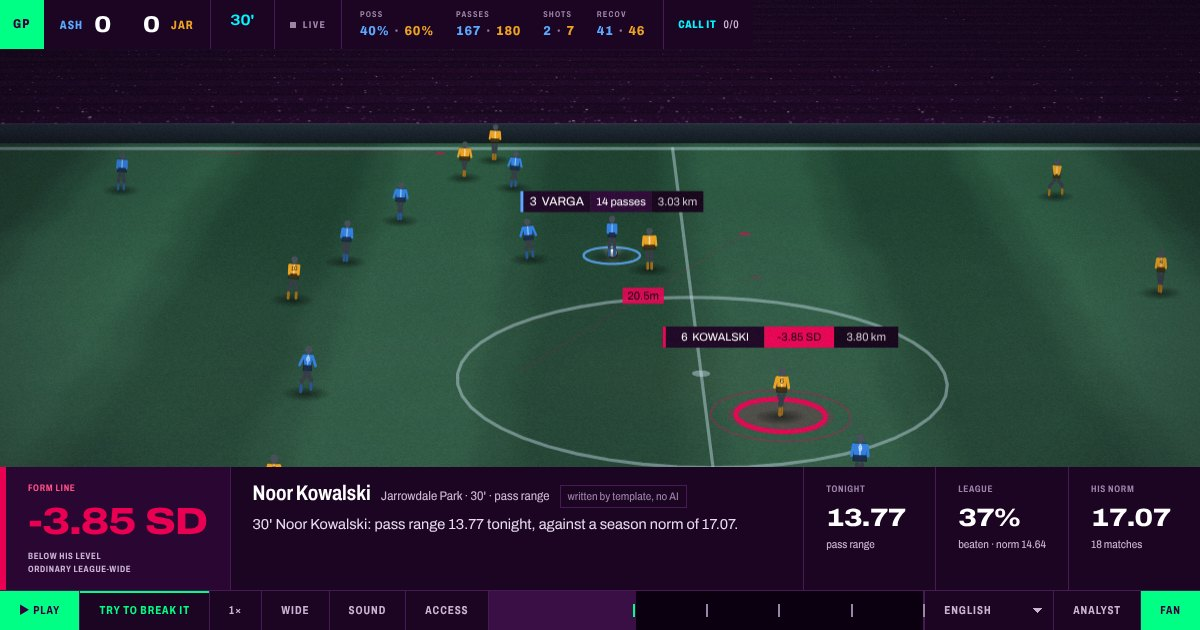
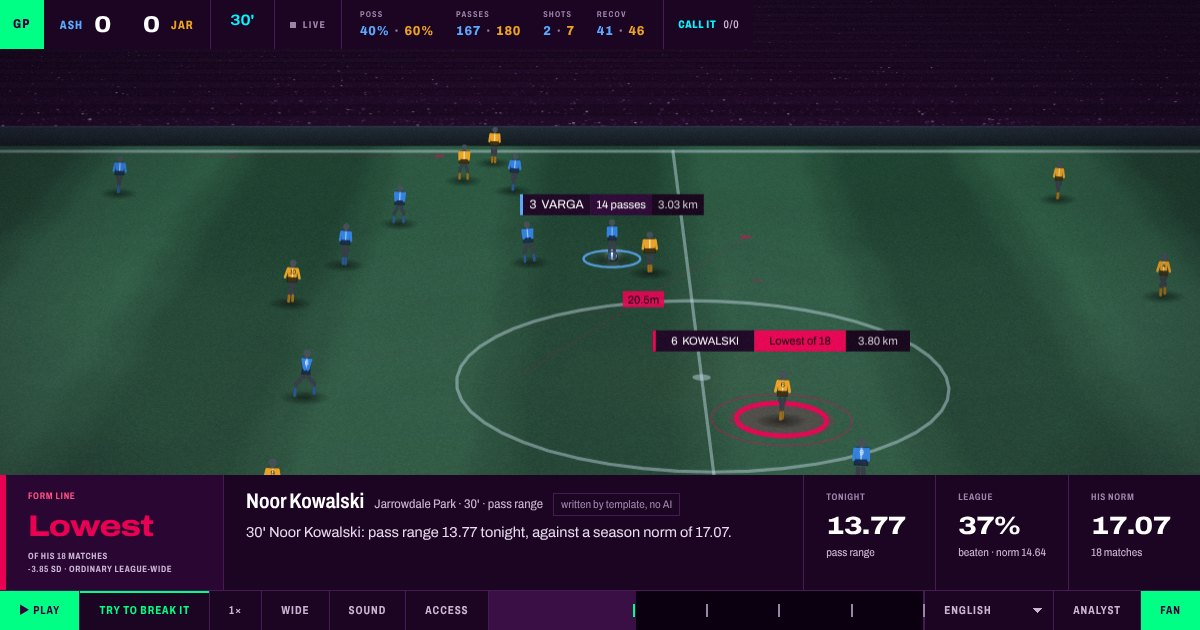
Lead with "Lowest of his 18 matches", not "-3.85 SD"
A standard deviation is right for an analyst and lost on a fan. The
strap's headline is now where tonight ranks among the player's own
matches this season -- "Lowest", "2nd highest", "3rd lowest" -- with
"of his 18 matches" under it and the SD kept small beside "ordinary
league-wide". The pitch tag above the subject says the same: "Lowest of
18".

Rank says what the z-score says (him against himself) in words. A
percentage would not: Beaumont is +3% on his average and that is the
best of his 18 matches, because he is consistent.

- feed.py: season_rank() from the same per-match season means the Form
  Line uses; ranked from the end the claim points to; a tie counts
  against a record; direction-aware for low-is-good metrics. Shipped
  per moment as {pos, of, end}. Shown when pos <= 3; otherwise the SD.
- Labels in all five languages; the SD sits in its own LTR run in
  Arabic.
- tests/test_rank.py (7): unit cases, every shipped rank recomputed from
  the season, the opener pinned to "lowest of 18", labels present in
  every language.
- Preview image, README alt text and the demo script's opening line
  updated.

167 passed; axe-core 0 violations.

Claude-Session: https://claude.ai/code/session_01E9b7JPXj8N3Bai4KZHqxPT

diff --git a/docs/index.html b/docs/index.html
@@ -1200,7 +1200,10 @@ function subjectIndex() {
   return { side, p, away: side === 'away',
     rgb: up ? SUBJECT_RGB.up : SUBJECT_RGB.down, hex: up ? '#00FF85' : '#E90052',
     ink: '#0B0010', shirt: FEED.lineups[side][p].n, last: FEED.lineups[side][p].last,
-    stat: `${m.z > 0 ? '+' : ''}${m.z} SD`, events: m.events || [],
+    // The pitch tag says what the strap's headline says: "Lowest of 18".
+    stat: (m.season_rank && m.season_rank.pos <= 3)
+      ? fill(uiNow().rank_short, { rank: T(`rank_${m.season_rank.end}_${m.season_rank.pos}`), n: m.season_rank.of })
+      : `${m.z > 0 ? '+' : ''}${m.z} SD`, events: m.events || [],
     touches: m.touches || null, claimMinute: m.minute, claimN: (m.events || []).length,
     unit: unitFor(m.metric), metres: /range/.test(m.metric_key || m.metric || '') };
 }
@@ -2035,8 +2038,19 @@ function showMoment(i) {
   // The Form Line is the hero block, read first. Everything else on the
   // strap is a supporting figure any competitor could also show.
   const hero = $('#lForm');
-  if (m.season_mean != null) {
-    hero.textContent = `${m.z > 0 ? '+' : ''}${m.z} SD`;
+  const rk = m.season_rank, sd = `${m.z > 0 ? '+' : ''}${m.z} SD`;
+  if (m.season_mean != null && rk && rk.pos <= 3) {
+    // Lead with where tonight ranks among his own matches -- "Lowest",
+    // "2nd highest" -- which says what the z-score says without asking
+    // anyone to know what a standard deviation is. The SD stays, small,
+    // for the analyst; so does the league's view, which is the contrast.
+    hero.textContent = T(`rank_${rk.end}_${rk.pos}`);
+    hero.style.fontSize = '30px';
+    // The SD sits in its own left-to-right run, or Arabic shows "3.85- SD".
+    $('#lTag').innerHTML = `<span>${escapeHtml(fill(uiNow().rank_of, { n: rk.of }))}</span>` +
+      `<span><bdi dir="ltr">${sd}</bdi> · ${escapeHtml(m.diverges ? T('ordinary') : (m.above ? T('above') : T('below')))}</span>`;
+  } else if (m.season_mean != null) {
+    hero.textContent = sd;
     hero.style.fontSize = '';
   } else {
     hero.textContent = T('refused');

diff --git a/src/gegenpress/i18n.py b/src/gegenpress/i18n.py
@@ -279,6 +279,14 @@ UI: dict[str, dict[str, str]] = {
         "why_gate_fb": "fell back to template",
         "refused": "refused",
         "refused_tag": "no between-player signal · league claim only",
+        "rank_lowest_1": "Lowest",
+        "rank_lowest_2": "2nd lowest",
+        "rank_lowest_3": "3rd lowest",
+        "rank_highest_1": "Highest",
+        "rank_highest_2": "2nd highest",
+        "rank_highest_3": "3rd highest",
+        "rank_of": "of his {n} matches",
+        "rank_short": "{rank} of {n}",
         "priv": "Your settings stay in this browser. No account, no cookies, and nothing about you is sent anywhere.",
         "priv_azure": "With the Azure voice, the line being spoken is sent to Azure Speech to be voiced. Nothing about you is.",
         "pitch_label": "Match pitch. Turn on audio description under Access to hear the play.",
@@ -391,6 +399,14 @@ UI: dict[str, dict[str, str]] = {
         "why_gate_fb": "se usó la plantilla",
         "refused": "rechazado",
         "refused_tag": "sin señal entre jugadores · solo afirmación de liga",
+        "rank_lowest_1": "El más bajo",
+        "rank_lowest_2": "2.º más bajo",
+        "rank_lowest_3": "3.º más bajo",
+        "rank_highest_1": "El más alto",
+        "rank_highest_2": "2.º más alto",
+        "rank_highest_3": "3.º más alto",
+        "rank_of": "de sus {n} partidos",
+        "rank_short": "{rank} de {n}",
         "priv": "Tus ajustes se quedan en este navegador. Sin cuenta, sin cookies y nada sobre ti se envía a ningún sitio.",
         "priv_azure": "Con la voz de Azure, la frase que se lee se envía a Azure Speech para sonorizarla. Nada sobre ti.",
         "pitch_label": "Campo del partido. Activa la audiodescripción en Accesibilidad para escuchar el juego.",
@@ -503,6 +519,14 @@ UI: dict[str, dict[str, str]] = {
         "why_gate_fb": "modèle de secours utilisé",
         "refused": "refusé",
         "refused_tag": "aucun signal entre joueurs · affirmation de ligue seulement",
+        "rank_lowest_1": "Le plus bas",
+        "rank_lowest_2": "2e plus bas",
+        "rank_lowest_3": "3e plus bas",
+        "rank_highest_1": "Le plus haut",
+        "rank_highest_2": "2e plus haut",
+        "rank_highest_3": "3e plus haut",
+        "rank_of": "sur ses {n} matchs",
+        "rank_short": "{rank} sur {n}",
         "priv": "Vos réglages restent dans ce navigateur. Pas de compte, pas de cookies, et rien vous concernant n’est envoyé.",
         "priv_azure": "Avec la voix Azure, la phrase lue est envoyée à Azure Speech pour être vocalisée. Rien vous concernant.",
         "pitch_label": "Terrain du match. Activez l’audiodescription dans Accès pour entendre le jeu.",
@@ -615,6 +639,14 @@ UI: dict[str, dict[str, str]] = {
         "why_gate_fb": "a fixed template was used",
         "refused": "not allowed",
         "refused_tag": "measures the game, not the player · league comparison only",
+        "rank_lowest_1": "His lowest",
+        "rank_lowest_2": "His 2nd lowest",
+        "rank_lowest_3": "His 3rd lowest",
+        "rank_highest_1": "His highest",
+        "rank_highest_2": "His 2nd highest",
+        "rank_highest_3": "His 3rd highest",
+        "rank_of": "in {n} games this season",
+        "rank_short": "{rank} of {n}",
         "priv": "Your choices stay on this computer. No account, no cookies, nothing about you is sent.",
         "priv_azure": "With the Azure voice, the words being read out are sent to Azure to be spoken. Nothing about you is.",
         "pitch_label": "The pitch. Turn on spoken description under Access to hear what happens.",
@@ -727,6 +759,14 @@ UI: dict[str, dict[str, str]] = {
         "why_gate_fb": "استُخدم القالب الاحتياطي",
         "refused": "مرفوض",
         "refused_tag": "لا فرق بين اللاعبين · مقارنة الدوري فقط",
+        "rank_lowest_1": "الأدنى",
+        "rank_lowest_2": "ثاني أدنى",
+        "rank_lowest_3": "ثالث أدنى",
+        "rank_highest_1": "الأعلى",
+        "rank_highest_2": "ثاني أعلى",
+        "rank_highest_3": "ثالث أعلى",
+        "rank_of": "من مبارياته الـ{n}",
+        "rank_short": "{rank} من {n}",
         "priv": "تبقى إعداداتك في هذا المتصفح. لا حساب، ولا ملفات تعريف ارتباط، ولا يُرسل أي شيء عنك.",
         "priv_azure": "مع صوت Azure، تُرسل الجملة المقروءة إلى Azure Speech لنطقها. لا شيء عنك.",
         "pitch_label": "أرض الملعب. فعّل الوصف الصوتي من قائمة الإتاحة لسماع اللعب.",

diff --git a/tests/test_rank.py b/tests/test_rank.py
@@ -1,0 +1,98 @@
+"""The strap's headline: where tonight ranks among his own matches.
+
+"Lowest of his 18 matches" replaces "-3.85 SD" as the big figure because
+a fan can read it. It has to be exactly as true as the z-score it stands
+in for, so it is recomputed here from the season, independently of the
+feed, and checked to point the same way as the z.
+"""
+
+from __future__ import annotations
+
+import json
+import pathlib
+
+import pytest
+
+from gegenpress.baselines import METRICS
+from gegenpress.feed import season_rank
+from gegenpress.form import build_form_baselines
+from gegenpress.season import build_league
+from gegenpress.simulate import simulate_season
+
+ROOT = pathlib.Path(__file__).resolve().parents[1]
+FEED = ROOT / "docs" / "feed.json"
+LABEL_TO_KEY = {"pass range": "pass_distance_m", "ball speed": "ball_speed_ms",
+                "top speed": "top_speed_ms", "carry range": "carry_distance_m",
+                "recovery time": "recovery_time_s", "pass difficulty": "pass_difficulty",
+                "shot speed": "shot_speed_ms", "xG": "xg"}
+
+
+def test_ranks_from_the_right_end():
+    means = [10.0, 12.0, 14.0, 16.0]
+    assert season_rank(means, 9.0, -2.0) == {"pos": 1, "of": 4, "end": "lowest"}
+    assert season_rank(means, 13.0, -1.0) == {"pos": 3, "of": 4, "end": "lowest"}
+    assert season_rank(means, 17.0, 2.0) == {"pos": 1, "of": 4, "end": "highest"}
+    assert season_rank(means, 15.0, 1.0) == {"pos": 2, "of": 4, "end": "highest"}
+
+
+def test_a_tie_does_not_count_as_a_record():
+    """'Lowest' must mean lower than every match he has played."""
+    assert season_rank([10.0, 12.0], 10.0, -1.5)["pos"] == 2
+
+
+def test_low_is_good_metrics_rank_in_raw_values():
+    # Worse (z < 0) on a low-is-good metric is a HIGH value.
+    assert season_rank([20.0, 25.0, 30.0], 35.0, -2.0, low_is_good=True)["end"] == "highest"
+    assert season_rank([20.0, 25.0, 30.0], 15.0, 2.0, low_is_good=True)["end"] == "lowest"
+
+
+def test_no_rank_without_a_direction():
+    assert season_rank([1.0, 2.0], 1.5, 0) is None
+    assert season_rank([], 1.5, -1.0) is None
+
+
+@pytest.fixture(scope="module")
+def form():
+    league = build_league(seed=2026)
+    return league, build_form_baselines(simulate_season(league, seed=2026))
+
+
+def test_every_shipped_rank_recomputes_from_the_season(form):
+    if not FEED.exists():  # pragma: no cover
+        pytest.skip("feed not built")
+    league, fb = form
+    names = {p.name: p.player_id for p in league.players}
+    feed = json.loads(FEED.read_text())
+    for m in feed["moments"]:
+        if m.get("season_mean") is None:
+            continue
+        key = LABEL_TO_KEY[m["metric"]]
+        means = fb.player_match_means[(names[m["player"]], key)]
+        rk = m["season_rank"]
+        assert rk["of"] == len(means) == m["appearances"], m["player"]
+        low = METRICS[key][2] == "low_is_good"
+        if (rk["end"] == "lowest") != low:
+            assert (m["z"] < 0), (m["player"], "a 'lowest' must be a night below his level")
+            assert rk["pos"] == 1 + sum(x <= m["value"] for x in means)
+        else:
+            assert (m["z"] > 0), (m["player"], "a 'highest' must be a night above his level")
+            assert rk["pos"] == 1 + sum(x >= m["value"] for x in means)
+
+
+def test_the_opener_is_his_lowest_of_the_season():
+    """The demo's first frame: pin it, so a regenerated feed cannot quietly
+    change what the video says."""
+    if not FEED.exists():  # pragma: no cover
+        pytest.skip("feed not built")
+    feed = json.loads(FEED.read_text())
+    k = next(m for m in feed["moments"] if m["player"] == "Noor Kowalski" and m["minute"] == 30)
+    assert k["season_rank"] == {"pos": 1, "of": 18, "end": "lowest"}
+
+
+def test_the_strap_has_a_label_for_every_rank_it_can_show():
+    feed = json.loads(FEED.read_text())
+    for lang, ui in feed["i18n"]["ui"].items():
+        for end in ("lowest", "highest"):
+            for pos in (1, 2, 3):
+                assert ui.get(f"rank_{end}_{pos}"), (lang, end, pos)
+        assert "{n}" in ui["rank_of"], lang

diff --git a/src/gegenpress/feed.py b/src/gegenpress/feed.py
@@ -16,8 +16,9 @@ from dataclasses import asdict, dataclass
 from typing import Any
 
 from .agents import TOLERANCE, Gate, Segment, run_desk
+from .baselines import METRICS
 from .editorial import ReviewLog, apply as editorial_apply
-from .form import CHECKPOINTS, METRIC_LABELS, NOTABLE_Z
+from .form import CHECKPOINTS, METRIC_LABELS, NOTABLE_Z, build_form_baselines
 from .i18n import (DIRECTION, LANGUAGES, LANGUAGE_CODES, form_claim,
                    metric_label, moment_text)
 from .i18n import ui as ui_strings
@@ -289,6 +290,30 @@ class _BriefView:
         return self._allowed
 
 
+def season_rank(form_means: list[float], value: float, z: float | None,
+                low_is_good: bool = False) -> dict[str, Any] | None:
+    """Where tonight sits among his own matches this season, in words a fan
+    reads at a glance: "lowest of his 18", "2nd highest of 18".
+
+    The same comparison the z-score makes -- him against himself -- without
+    asking anyone to know what a standard deviation is. Ranked in the
+    direction of the claim: a night below his level is ranked from the
+    bottom, one above it from the top. Ties count against the claim, so
+    "lowest" means strictly lower than every match he has played.
+    """
+    if not form_means or z is None or z == 0:
+        return None
+    # z is direction-aware (positive always means better), the rank is in
+    # raw values: a worse night on a low-is-good metric is a HIGH value.
+    if (z < 0) != low_is_good:
+        pos = 1 + sum(1 for x in form_means if x <= value)
+        end = "lowest"
+    else:
+        pos = 1 + sum(1 for x in form_means if x >= value)
+        end = "highest"
+    return {"pos": pos, "of": len(form_means), "end": end}
+
+
 def build_feed(
     store: Store,
     league: League,
@@ -332,6 +357,7 @@ def build_feed(
     follow_at = {str(m): follow_as_of(m) for m in CHECKPOINTS}
     state = store.match_state(live, as_of_minute=90, window_minutes=90)
 
+    form_base = build_form_baselines(season)
     moments = []
     for seg, review in zip(segments, reviews):
         b = seg.brief
@@ -368,6 +394,11 @@ def build_feed(
             "season_mean": b.season_mean,
             "z": b.z,
             "appearances": b.appearances,
+            "season_rank": season_rank(
+                form_base.player_match_means.get((seg.form_player_id, seg.form_metric), []),
+                b.value, b.z,
+                METRICS.get(seg.form_metric, ("", "", ""))[2] == "low_is_good",
+            ) if seg.form_player_id else None,
             "diverges": b.diverges,
             "above": (b.z or 0) > 0,
             "events": contributing_events(

diff --git a/README.md b/README.md
@@ -4,7 +4,7 @@
 
 [![ci](https://github.com/hectar-glitches/gegenpress/actions/workflows/ci.yml/badge.svg)](https://github.com/hectar-glitches/gegenpress/actions/workflows/ci.yml)
 
-[![The console at 30:29: Noor Kowalski's pass range, 3.85 standard deviations below his own season while the league reads it as ordinary](docs/og.jpg)](https://hectar-glitches.github.io/gegenpress/)
+[![The console at 30:29: Noor Kowalski's pass range, the lowest of his 18 matches this season, while the league reads it as ordinary](docs/og.jpg)](https://hectar-glitches.github.io/gegenpress/)
 
 Built for the Microsoft × Premier League *Inside the Game* Developer Hackathon. **Category: Best Enterprise Solution.**
 
@@ -53,7 +53,7 @@ Gate precision **100%**, claim integrity **100%**, refusal correctness **100%** 
 
 **The controls.** In sport the figures are expected to be right, and a receipt proving 13.77 equals 13.77 impresses nobody. A broadcaster's risk is not that a number is wrong. It is that a claim goes to air which the data cannot support, in front of a rights-holder, a regulator and the player's club. The gate is deterministic, so the same inputs give the same verdict every time and it can be **audited** rather than re-sampled. So the receipt is not about the number; it is about the sentence built on it. The console's **Why** panel is ordered by what is actually in dispute: his own reference class first, then the verdict, then whether this metric is entitled to carry a personal claim at all — ICC 0.112 for pass range, 0.006 for recovery time — then the league's view, and only then the measurement, which nobody was questioning. It lives in the data layer, as KQL alongside the events it governs, not in a prompt that can be edited away. And its limits are published as measured numbers rather than described: the two corruption classes it cannot catch are `xfail` tests scoring a hard zero, which is the form an audit can actually read.
 
-**The claim is enforced, not asserted.** `python -m gegenpress eval` exits non-zero if gate precision, claim integrity or refusal correctness falls below 100%, and [it runs on every push](.github/workflows/ci.yml) — alongside the 160 tests and a live start of the MCP server over stdio. The three figures above are not a number somebody typed into a README once. If they ever stop being true, the build goes red. That is the difference between a metric and a control, and it is the whole of what an enterprise is buying here.
+**The claim is enforced, not asserted.** `python -m gegenpress eval` exits non-zero if gate precision, claim integrity or refusal correctness falls below 100%, and [it runs on every push](.github/workflows/ci.yml) — alongside the 167 tests and a live start of the MCP server over stdio. The three figures above are not a number somebody typed into a README once. If they ever stop being true, the build goes red. That is the difference between a metric and a control, and it is the whole of what an enterprise is buying here.
 
 **Language is a residency property, not a feature.** The console ships in four languages and a plain-English register, and switching is a re-render rather than a request: every translated claim is already in the feed, already checked by the same gate. Nothing is sent to a translation service, so a claim never leaves the region that computed it. And because the gate reads digits rather than prose, one control covers every locale — a model-based fact-checker needs retraining, re-thresholding and re-evaluating per language, which is why most ship one. [Pinned by 14 tests](tests/test_i18n.py), including that the figures on screen are identical in all five.
 
@@ -108,7 +108,7 @@ pip install pytest
 PYTHONPATH=src python -m gegenpress form        # the differentiator, on one screen
 PYTHONPATH=src python -m gegenpress desk        # Scout -> Why -> Desk -> Gate
 PYTHONPATH=src python -m gegenpress calibrate   # realism report
-PYTHONPATH=src python -m pytest -q              # 160 tests
+PYTHONPATH=src python -m pytest -q              # 167 tests
 
 PYTHONPATH=src python -m gegenpress feed
 python -m http.server -d docs 8000              # the console at localhost:8000

diff --git a/docs/DEMO.md b/docs/DEMO.md
@@ -54,8 +54,8 @@ are the only words you say.
 
 "A producer has seconds to decide what goes on screen. Broadcast says that
 pass was long. Gegenpress says it was long **for him**. Kowalski tonight:
-thirty-seventh percentile for the league, nearly four standard deviations
-below his own season."
+thirty-seventh percentile for the league, ordinary. For him, the lowest of
+his eighteen matches this season."
 
 *Why this works: the differentiator and the user are both delivered before
 the viewer has been asked to understand anything. No architecture, no tour.*
